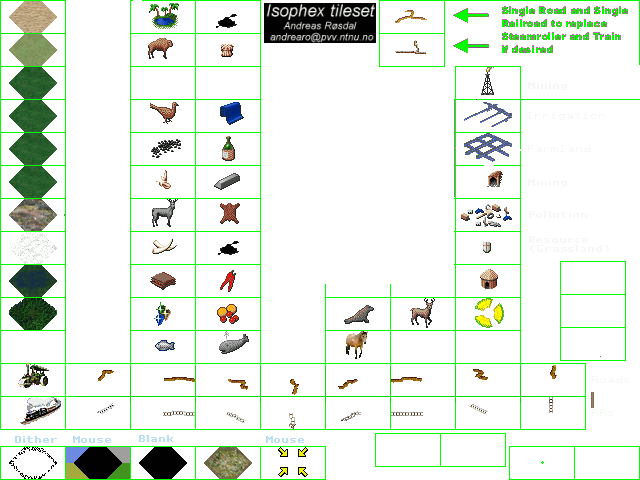
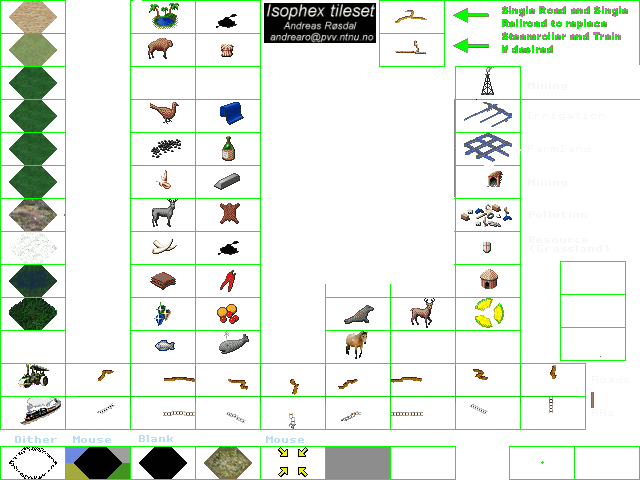
Make fog-of-war toggleable in the map overview, and draw it on top of all other layers.
Patch by me in PR#13582.

Changed region(s): [[0.5, 0.9062, 0.7188, 1.0], [0.6875, 0.9062, 0.7188, 0.9375]]

diff --git a/trunk/client/overview_common.c b/trunk/client/overview_common.c
@@ -27,6 +27,8 @@
 
 int OVERVIEW_TILE_SIZE = 2;
 struct overview overview = {
+  /* These are the default values.  All others are zeroed automatically. */
+  .fog = TRUE,
   .layers = {[OLAYER_BACKGROUND] = TRUE,
 	     [OLAYER_UNITS] = TRUE,
 	     [OLAYER_CITIES] = TRUE}
@@ -146,19 +148,9 @@ static struct color *overview_tile_color(struct tile *ptile)
   }
   if (overview.layers[OLAYER_BACKGROUND] && ptile->terrain != T_UNKNOWN) {
     if (is_ocean(ptile->terrain)) {
-      if (client_tile_get_known(ptile) == TILE_KNOWN_FOGGED
-	  && draw_fog_of_war) {
-	return get_color(tileset, COLOR_OVERVIEW_FOGGED_OCEAN);
-      } else {
-	return get_color(tileset, COLOR_OVERVIEW_OCEAN);
-      }
+      return get_color(tileset, COLOR_OVERVIEW_OCEAN);
     } else {
-      if (client_tile_get_known(ptile) == TILE_KNOWN_FOGGED
-	  && draw_fog_of_war) {
-	return get_color(tileset, COLOR_OVERVIEW_FOGGED_LAND);
-      } else {
-	return get_color(tileset, COLOR_OVERVIEW_LAND);
-      }
+      return get_color(tileset, COLOR_OVERVIEW_LAND);
     }
   }
 
@@ -348,6 +340,26 @@ void refresh_overview_canvas(void)
   redraw_overview();
 }
 
+/****************************************************************************
+  Draws the color for this tile onto the given rectangle of the canvas.
+
+  This is just a simple helper function for overview_update_tile, since
+  sometimes a tile may cover more than one rectangle.
+****************************************************************************/
+static void put_overview_tile_area(struct canvas *pcanvas,
+				   struct tile *ptile,
+				   int x, int y, int w, int h)
+{
+  canvas_put_rectangle(pcanvas,
+		       overview_tile_color(ptile),
+		       x, y, w, h);
+  if (client_tile_get_known(ptile) == TILE_KNOWN_FOGGED
+      && overview.fog) {
+    canvas_put_sprite(pcanvas, x, y, get_basic_fog_sprite(tileset),
+		      0, 0, w, h);
+  }
+}
+
 /**************************************************************************
   Redraw the given map position in the overview canvas.
 **************************************************************************/
@@ -364,10 +376,9 @@ void overview_update_tile(struct tile *ptile)
 	if (overview_x > overview.width - OVERVIEW_TILE_WIDTH) {
 	  /* This tile is shown half on the left and half on the right
 	   * side of the overview.  So we have to draw it in two parts. */
-	  canvas_put_rectangle(overview.map,
-			       overview_tile_color(ptile),
-			       overview_x - overview.width, overview_y,
-			       OVERVIEW_TILE_WIDTH, OVERVIEW_TILE_HEIGHT); 
+	  put_overview_tile_area(overview.map, ptile,
+				 overview_x - overview.width, overview_y,
+				 OVERVIEW_TILE_WIDTH, OVERVIEW_TILE_HEIGHT); 
 	}     
       } else {
 	/* Clip half tile left and right.
@@ -376,9 +387,9 @@ void overview_update_tile(struct tile *ptile)
       }
     } 
 
-    canvas_put_rectangle(overview.map, overview_tile_color(ptile),
-			 overview_x, overview_y,
-			 OVERVIEW_TILE_WIDTH, OVERVIEW_TILE_HEIGHT);
+    put_overview_tile_area(overview.map, ptile,
+			   overview_x, overview_y,
+			   OVERVIEW_TILE_WIDTH, OVERVIEW_TILE_HEIGHT);
 
     dirty_overview();
   } do_in_natural_pos_end;

diff --git a/trunk/client/options.c b/trunk/client/options.c
@@ -221,8 +221,8 @@ static client_option common_options[] = {
 
   GEN_BOOL_OPTION(overview.layers[OLAYER_BACKGROUND],
 		  N_("Background layer"),
-		  N_("The background layer of the overview shows ocean, "
-		     "land, and fog."), COC_OVERVIEW),
+		  N_("The background layer of the overview shows just "
+		     "ocean and land."), COC_OVERVIEW),
   GEN_BOOL_OPTION(overview.layers[OLAYER_RELIEF],
 		  N_("Terrain relief map layer"),
 		  N_("The relief layer shows all terrains on the map."),
@@ -238,6 +238,10 @@ static client_option common_options[] = {
   GEN_BOOL_OPTION(overview.layers[OLAYER_CITIES],
 		  N_("Cities layer"),
 		  N_("If enabled then cities will be drawn on the overview."),
+		  COC_OVERVIEW),
+  GEN_BOOL_OPTION(overview.fog,
+		  N_("Overview fog of war"),
+		  N_("If enabled, fog of war is shown on the overview."),
 		  COC_OVERVIEW)
 };
 #undef GEN_INT_OPTION

diff --git a/trunk/client/tilespec.c b/trunk/client/tilespec.c
@@ -4555,6 +4555,15 @@ struct sprite *get_unit_upkeep_sprite(const struct tileset *t,
 }
 
 /****************************************************************************
+  Return a rectangular sprite containing a fog "color".  This can be used
+  for drawing fog onto arbitrary areas (like the overview).
+****************************************************************************/
+struct sprite *get_basic_fog_sprite(const struct tileset *t)
+{
+  return t->sprites.tx.fog;
+}
+
+/****************************************************************************
   Return the tileset's color system.
 ****************************************************************************/
 struct color_system *get_color_system(const struct tileset *t)

diff --git a/trunk/client/tilespec.h b/trunk/client/tilespec.h
@@ -219,6 +219,7 @@ struct sprite *get_unit_unhappy_sprite(const struct tileset *t,
 struct sprite *get_unit_upkeep_sprite(const struct tileset *t,
 				      Output_type_id otype,
 				      const struct unit *punit);
+struct sprite *get_basic_fog_sprite(const struct tileset *t);
 
 struct color_system;
 struct color_system *get_color_system(const struct tileset *t);

diff --git a/trunk/client/colors_common.h b/trunk/client/colors_common.h
@@ -45,9 +45,7 @@ enum color_std {
   COLOR_OVERVIEW_ALLIED_UNIT,
   COLOR_OVERVIEW_ENEMY_UNIT, /* red */
   COLOR_OVERVIEW_OCEAN, /* ocean/blue */
-  COLOR_OVERVIEW_FOGGED_OCEAN, /* race4/dark blue */
   COLOR_OVERVIEW_LAND, /* ground/green */
-  COLOR_OVERVIEW_FOGGED_LAND, /* background/gray */
   COLOR_OVERVIEW_VIEWRECT, /* white */
 
   /* Reqtree colors */

diff --git a/trunk/client/colors_common.c b/trunk/client/colors_common.c
@@ -70,9 +70,7 @@ char *color_names[] = {
   "overview_alliedunit",
   "overview_enemyunit",
   "overview_ocean",
-  "overview_foggedocean",
   "overview_ground",
-  "overview_foggedground",
   "overview_viewrect",
 
   /* Reqtree */

diff --git a/trunk/client/overview_common.h b/trunk/client/overview_common.h
@@ -39,6 +39,7 @@ struct overview {
   /* A backing store for the window itself, wrapped. */
   struct canvas *window;
 
+  bool fog;
   bool layers[OLAYER_COUNT];
 };
 
